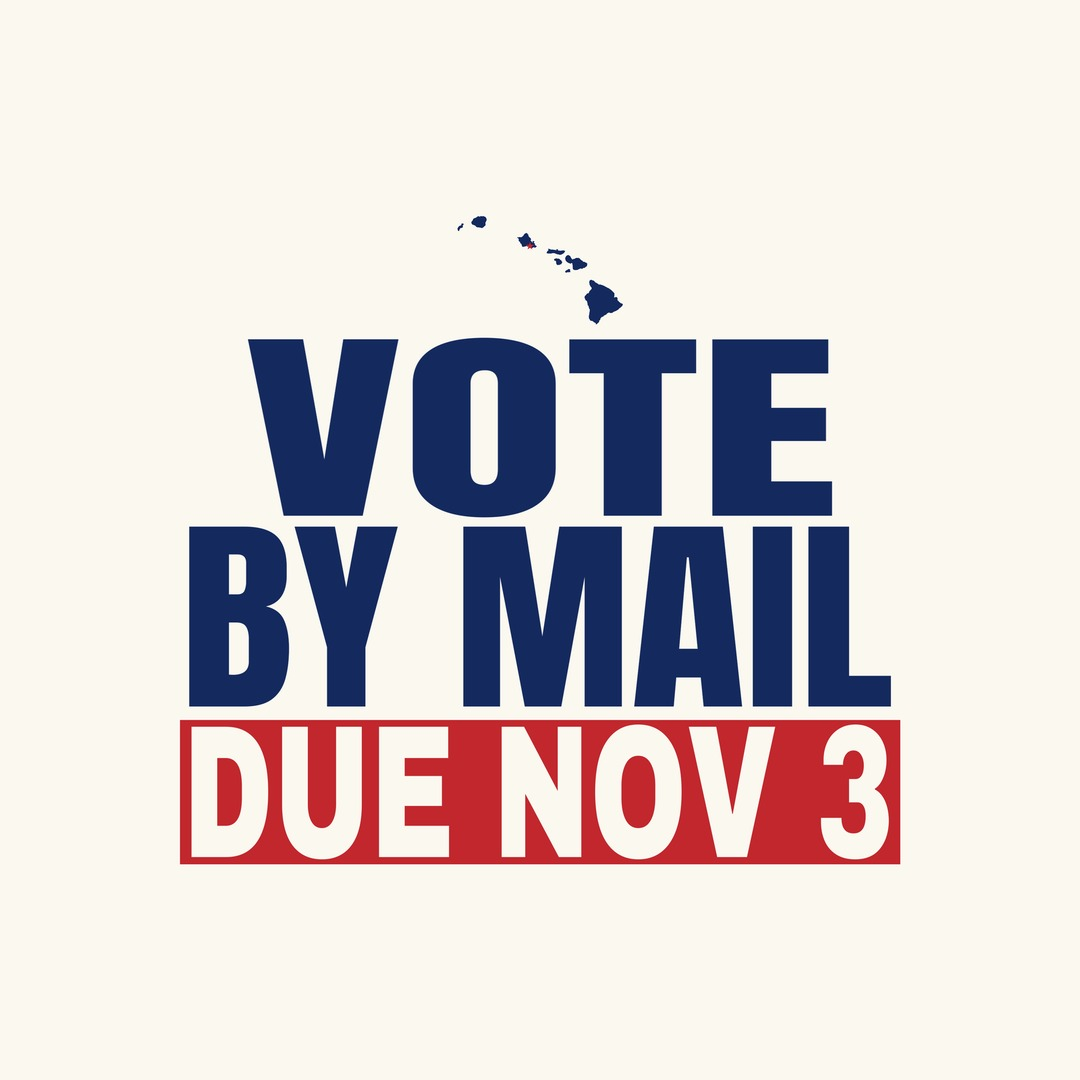
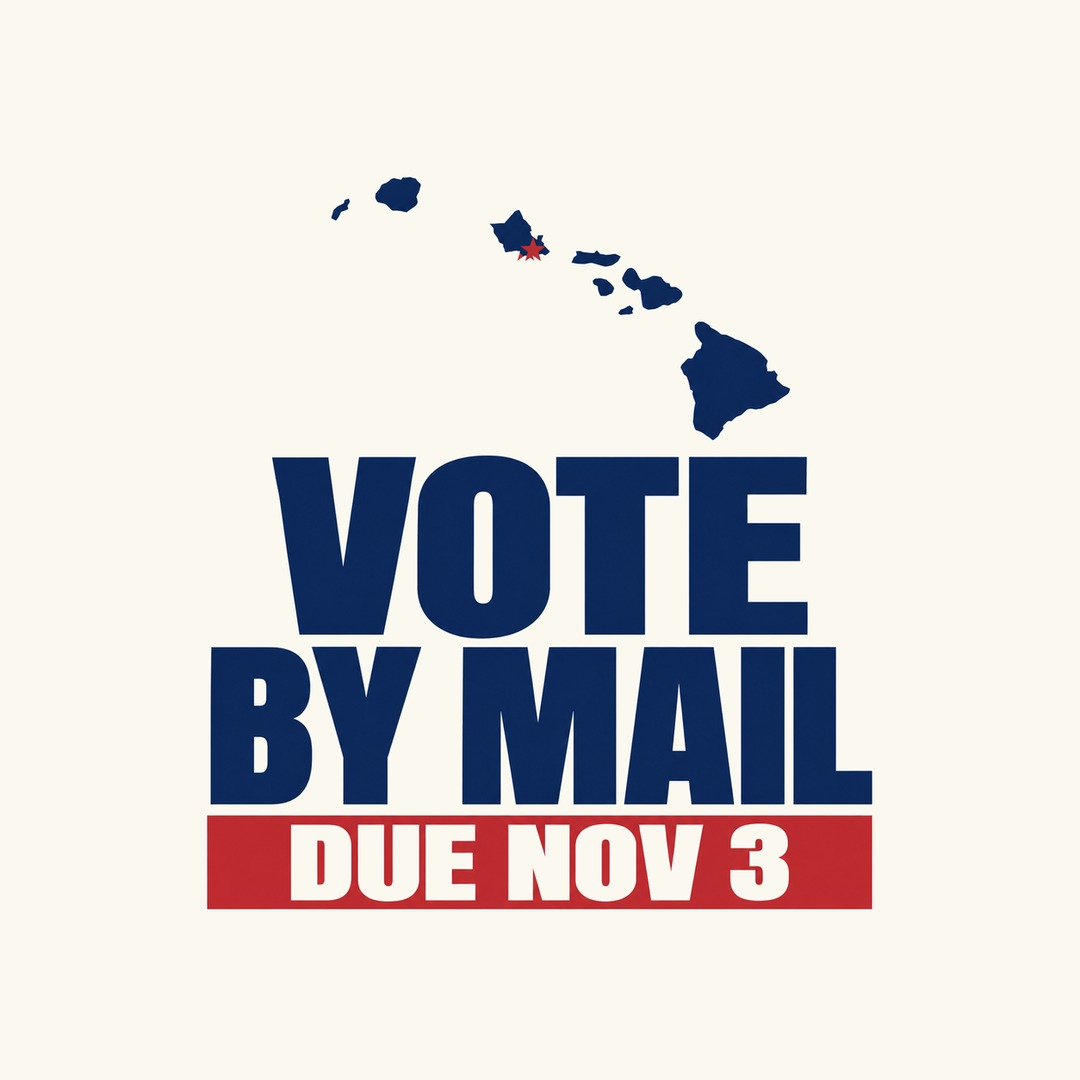
Hawaii: 10 new ready-mades from Codex; retire the earlier set
Claude-Session: https://claude.ai/code/session_01U4jJBSt3CnGjJYrtPzNn5q

Changed region(s): [[0.1528, 0.1833, 0.8556, 0.8556], [0.3056, 0.1528, 0.3972, 0.2139]]

diff --git a/site/index.php b/site/index.php
@@ -83,7 +83,7 @@ function vote_files( $abbr ) {
 
 // The state hero shows one standout ready-made, tilted (October 20, Garrett): the design named here,
 // or the first in the set. Numbers match <abbr>-vote-N.jpg.
-const VOTE_HERO = array( 'MS' => 5, 'MI' => 7, 'ID' => 7, 'NJ' => 5, 'OR' => 5, 'MN' => 6, 'NE' => 6, 'AL' => 6, 'AZ' => 6, 'CT' => 7, 'DE' => 5, 'GA' => 5, 'FL' => 5 );
+const VOTE_HERO = array( 'MS' => 5, 'MI' => 7, 'ID' => 7, 'NJ' => 5, 'OR' => 5, 'MN' => 6, 'NE' => 6, 'AL' => 6, 'AZ' => 6, 'CT' => 7, 'DE' => 5, 'GA' => 5, 'FL' => 5, 'HI' => 6 );
 function vote_hero_file( $abbr ) {
 	$n = VOTE_HERO[ $abbr ] ?? 0;
 	$k = strtolower( $abbr );
